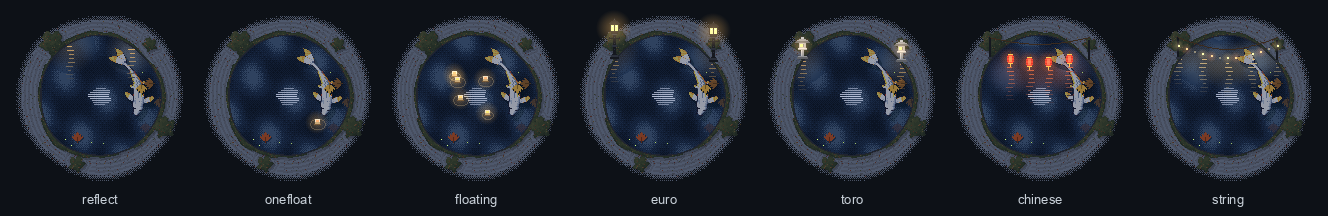
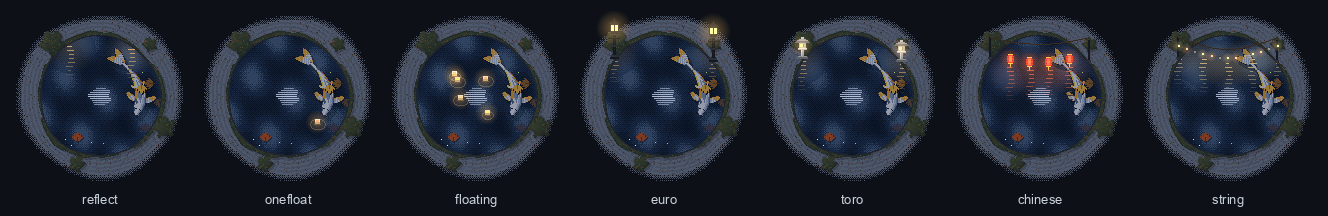
Gentler refraction, so thin fins waver without breaking up

diff --git a/docs/explorer.html b/docs/explorer.html
@@ -512,7 +512,8 @@ function drawFish(body, t, dx, dy, scale, mirror, night) {
     if (!night) { tctx.save(); tctx.globalCompositeOperation = "source-atop"; tctx.fillStyle = css(WATER.mid, 0.22); tctx.fillRect(0, 0, 256, 256); tctx.restore(); }
     // refraction: each pair of rows slides a pixel or so with the ripples
     wctx.clearRect(0, 0, 256, 256);
-    for (let y = 0; y < 256; y += 2) { const shift = 2 * Math.round(Math.sin(y * 0.045 + TAU * t / N * 3)); wctx.drawImage(tmp, 0, y, 256, 2, shift, y, 256, 2); }
+    // half a pixel of the koi's own art, in slow bands, so thin fins waver without breaking up
+    for (let y = 0; y < 256; y += 4) { const shift = Math.round(Math.sin(y * 0.03 + TAU * t / N * 2)); wctx.drawImage(tmp, 0, y, 256, 4, shift, y, 256, 4); }
     tctx.clearRect(0, 0, 256, 256); tctx.drawImage(wobbleCv, 0, 0);
   }
   // the shadow: the fish's own silhouette, dark and offset

diff --git a/scenes/pond.html b/scenes/pond.html
@@ -512,7 +512,8 @@ function drawFish(body, t, dx, dy, scale, mirror, night) {
     if (!night) { tctx.save(); tctx.globalCompositeOperation = "source-atop"; tctx.fillStyle = css(WATER.mid, 0.22); tctx.fillRect(0, 0, 256, 256); tctx.restore(); }
     // refraction: each pair of rows slides a pixel or so with the ripples
     wctx.clearRect(0, 0, 256, 256);
-    for (let y = 0; y < 256; y += 2) { const shift = 2 * Math.round(Math.sin(y * 0.045 + TAU * t / N * 3)); wctx.drawImage(tmp, 0, y, 256, 2, shift, y, 256, 2); }
+    // half a pixel of the koi's own art, in slow bands, so thin fins waver without breaking up
+    for (let y = 0; y < 256; y += 4) { const shift = Math.round(Math.sin(y * 0.03 + TAU * t / N * 2)); wctx.drawImage(tmp, 0, y, 256, 4, shift, y, 256, 4); }
     tctx.clearRect(0, 0, 256, 256); tctx.drawImage(wobbleCv, 0, 0);
   }
   // the shadow: the fish's own silhouette, dark and offset
